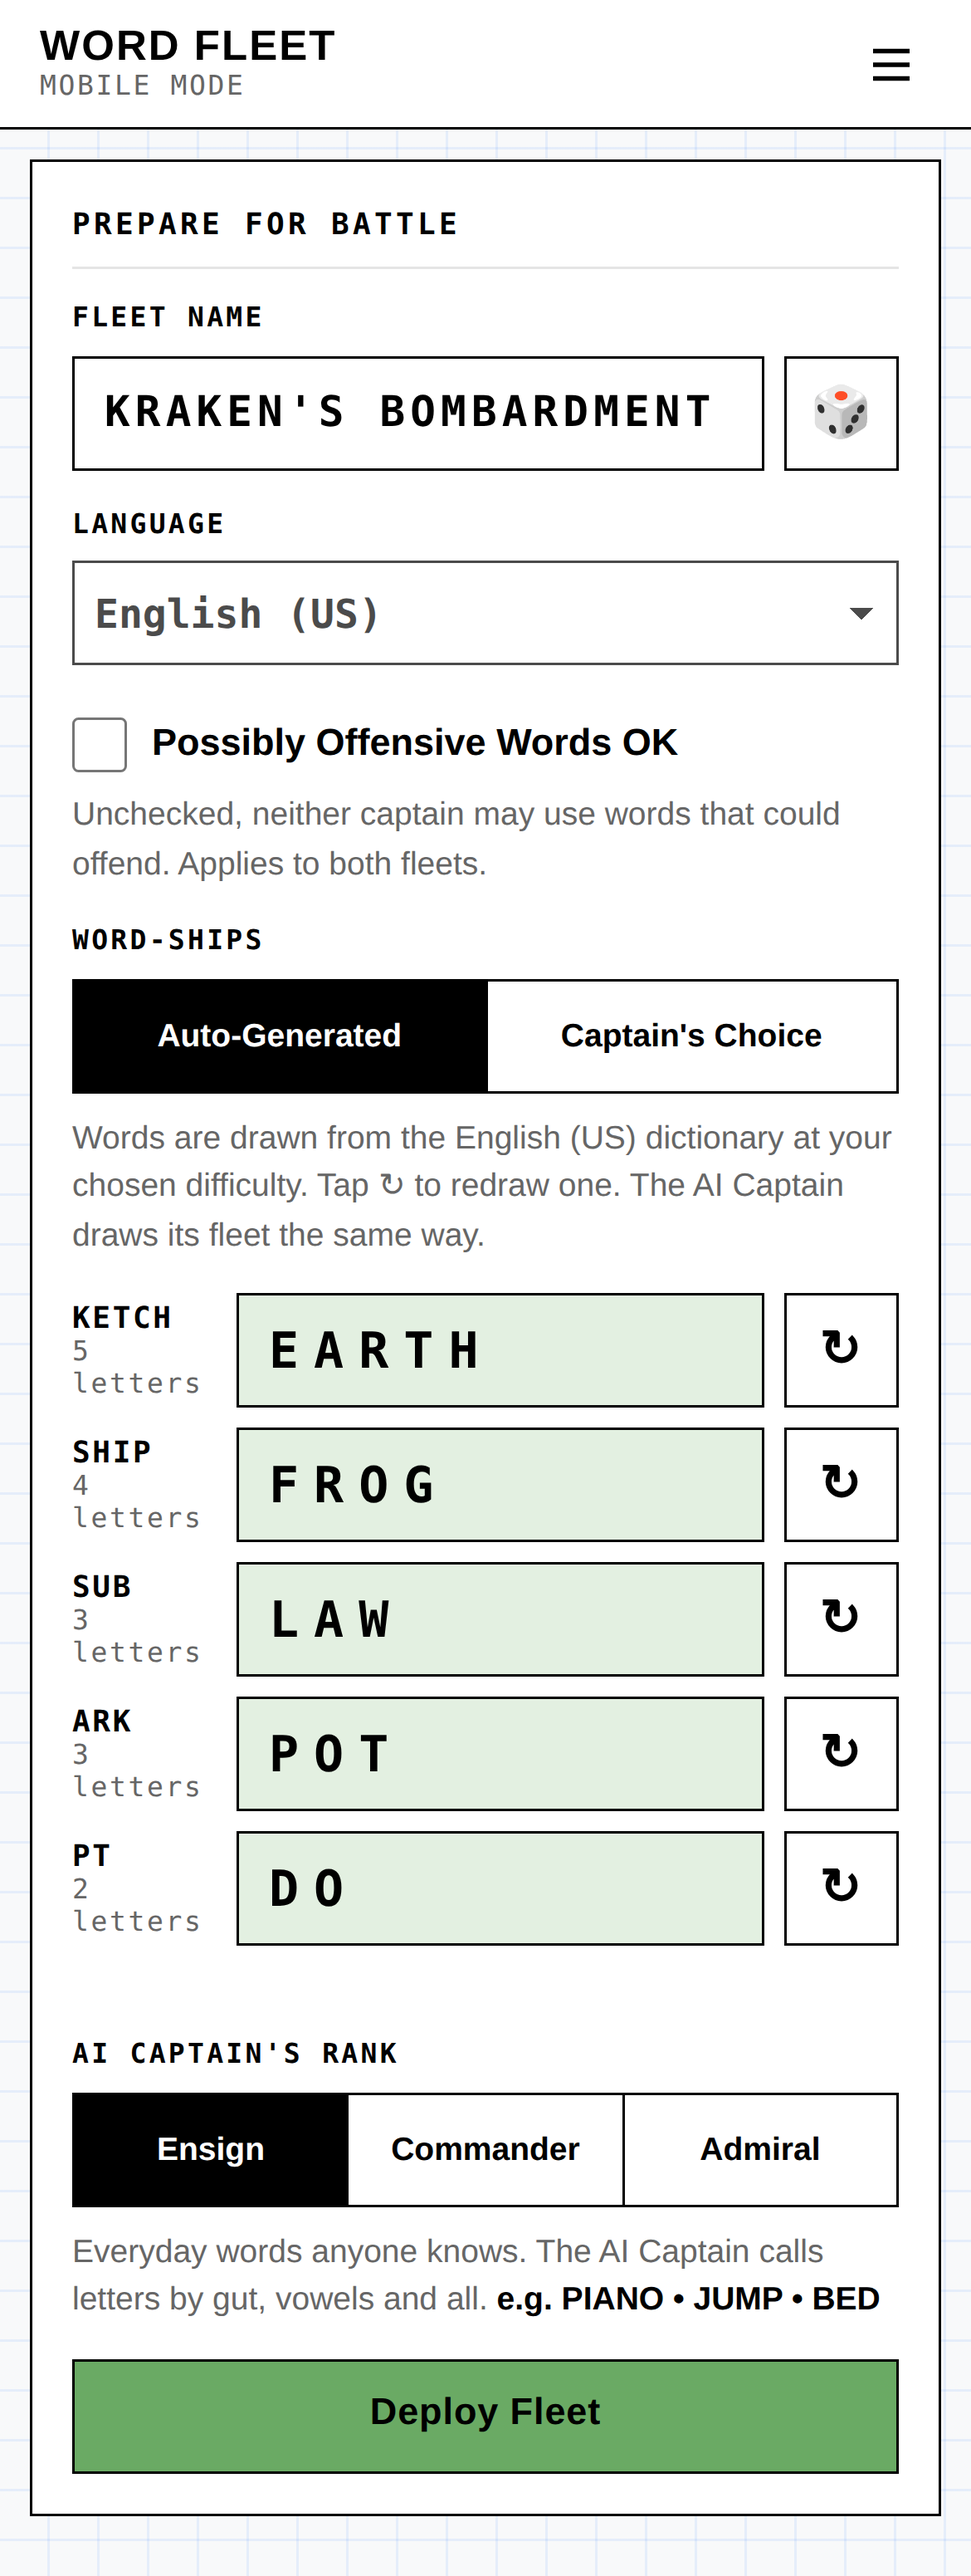
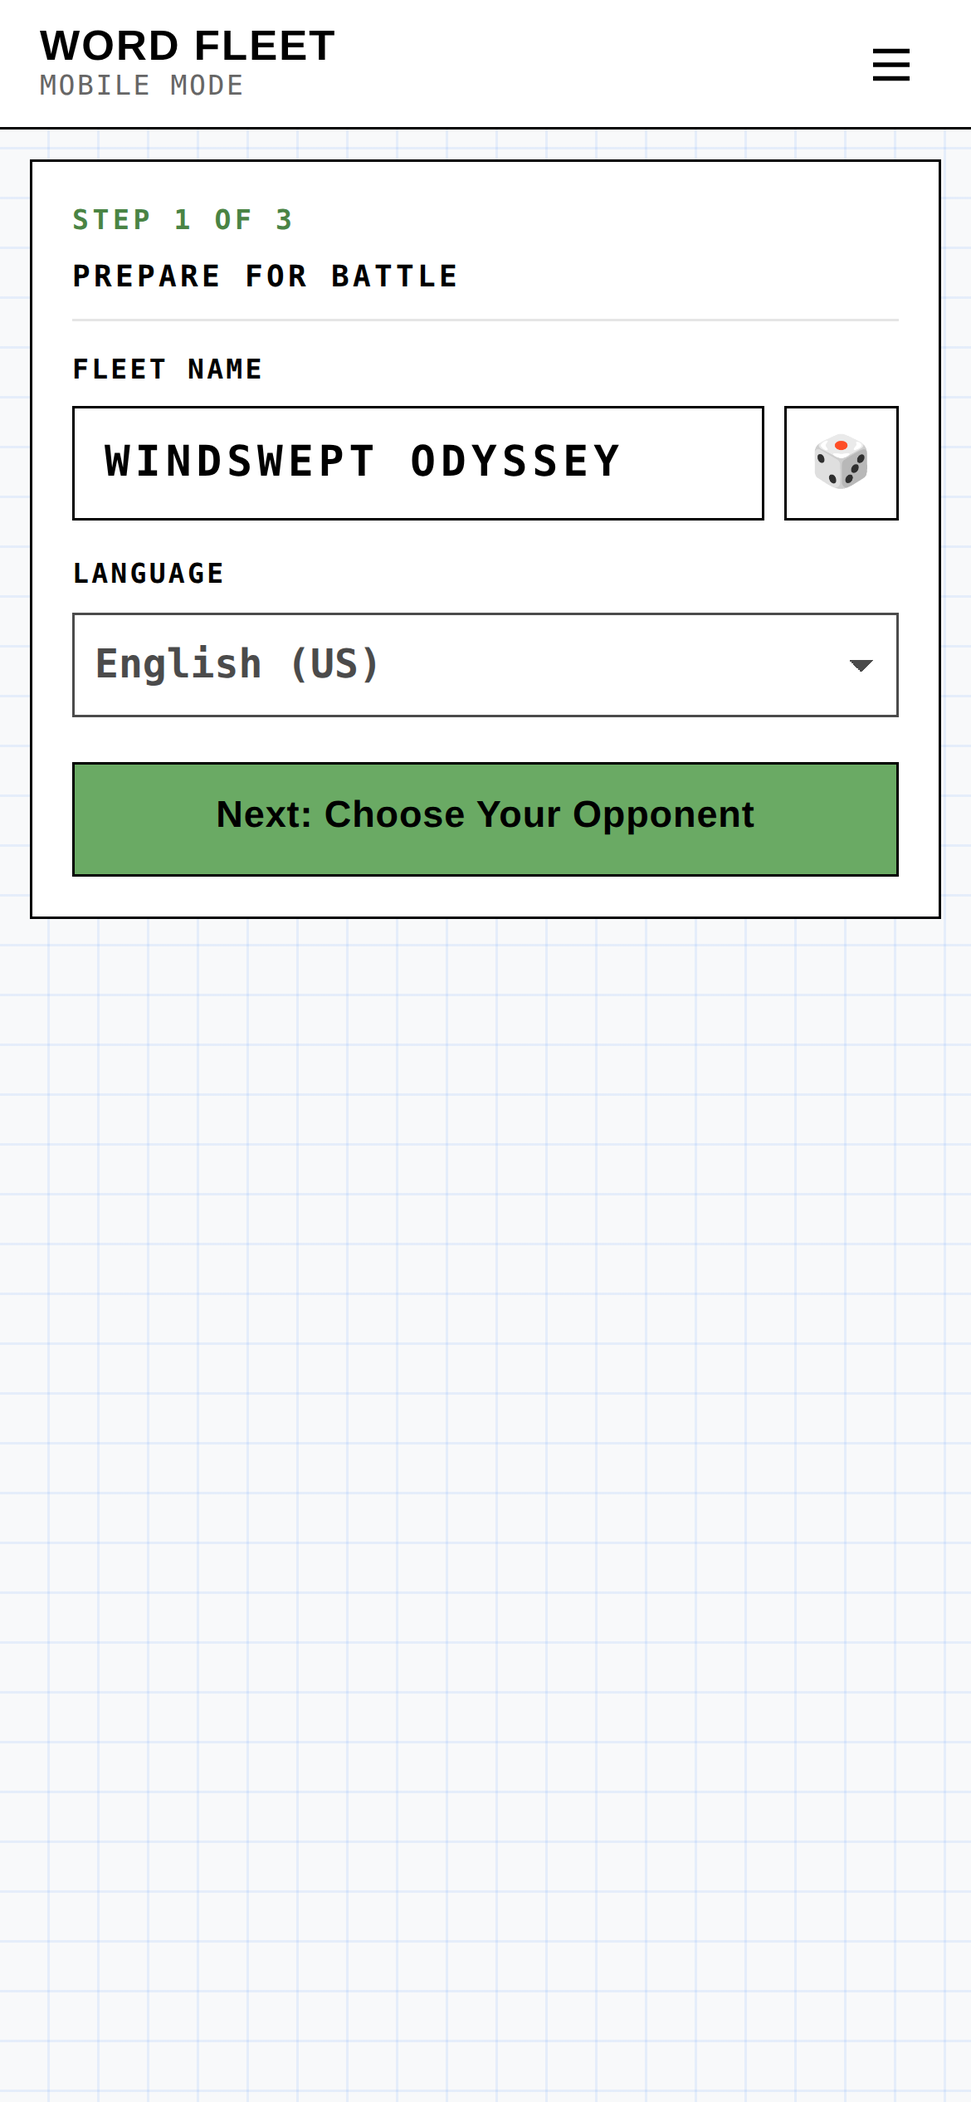
Split Prepare for Battle into three steps
002 Prepare for Battle (fleet name, language) > 003 Choose Your Opponent
(AI Captain's rank) > 004 Choose Your Words (auto or Captain's Choice,
the five words, offensive-words checkbox, Deploy Fleet). Each step has
Next and Back; Change Words on Deploy returns to step 3. Deploy is now
005 Deploy. Screen guide and snapshots updated.

Claude-Session: https://claude.ai/code/session_013sUGAAEC45a1EJCrQWVj9Q

diff --git a/mobile/index.html b/mobile/index.html
@@ -52,6 +52,7 @@
   <!-- ============ 002 PREPARE FOR BATTLE (screen name: "002 Prepare for Battle") ============ -->
   <section class="screen" id="scrSetup" data-screen="002 Prepare for Battle">
     <div class="card">
+      <div class="step">Step 1 of 3</div>
       <div class="card-title">Prepare for Battle</div>
       <label class="label" for="inFleet">Fleet Name</label>
       <div class="input-row">
@@ -61,19 +62,16 @@
 
       <label class="label" for="selLang">Language</label>
       <select class="select" id="selLang"></select>
-      <label class="check"><input type="checkbox" id="chkOffensive"> Possibly Offensive Words OK</label>
-      <p class="hint hint--tight">Unchecked, neither captain may use words that could offend. Applies to both fleets.</p>
 
-      <span class="label">Word-ships</span>
-      <div class="seg" id="segMode">
-        <button type="button" data-v="auto" class="is-on">Auto-Generated</button>
-        <button type="button" data-v="manual">Captain's Choice</button>
-      </div>
-      <p class="hint" id="modeHint">Auto words are drawn from the Word Fleet dictionary. The AI Captain uses the same method.</p>
+      <button class="btn btn--primary btn--wide btn--next" id="btnToOpponent" type="button">Next: Choose Your Opponent</button>
+    </div>
+  </section>
 
-      <div id="wordList"></div>
-      <p class="note" id="setupNote"></p>
-
+  <!-- ============ 003 CHOOSE YOUR OPPONENT (screen name: "003 Choose Your Opponent") ============ -->
+  <section class="screen" id="scrOpponent" data-screen="003 Choose Your Opponent">
+    <div class="card">
+      <div class="step">Step 2 of 3</div>
+      <div class="card-title">Choose Your Opponent</div>
       <span class="label">AI Captain's Rank</span>
       <div class="seg" id="segLevel">
         <button type="button" data-v="ensign" class="is-on">Ensign</button>
@@ -82,12 +80,36 @@
       </div>
       <p class="hint" id="levelHint"></p>
 
-      <button class="btn btn--primary btn--wide" id="btnToDeploy" type="button">Deploy Fleet</button>
+      <button class="btn btn--primary btn--wide btn--next" id="btnToWords" type="button">Next: Choose Your Words</button>
+      <button class="btn btn--ghost btn--wide" id="btnBackToSetup" type="button">&larr; Back</button>
     </div>
   </section>
 
-  <!-- ============ 003 DEPLOY (screen name: "003 Deploy") ============ -->
-  <section class="screen" id="scrDeploy" data-screen="003 Deploy">
+  <!-- ============ 004 CHOOSE YOUR WORDS (screen name: "004 Choose Your Words") ============ -->
+  <section class="screen" id="scrWords" data-screen="004 Choose Your Words">
+    <div class="card">
+      <div class="step">Step 3 of 3</div>
+      <div class="card-title">Choose Your Words</div>
+      <span class="label">Word-ships</span>
+      <div class="seg" id="segMode">
+        <button type="button" data-v="auto" class="is-on">Auto-Generated</button>
+        <button type="button" data-v="manual">Captain's Choice</button>
+      </div>
+      <p class="hint" id="modeHint"></p>
+
+      <div id="wordList"></div>
+      <p class="note" id="setupNote"></p>
+
+      <label class="check"><input type="checkbox" id="chkOffensive"> Possibly Offensive Words OK</label>
+      <p class="hint hint--tight">Unchecked, neither captain may use words that could offend. Applies to both fleets.</p>
+
+      <button class="btn btn--primary btn--wide btn--next" id="btnToDeploy" type="button">Deploy Fleet</button>
+      <button class="btn btn--ghost btn--wide" id="btnBackToOpponent" type="button">&larr; Back</button>
+    </div>
+  </section>
+
+  <!-- ============ 005 DEPLOY (screen name: "005 Deploy") ============ -->
+  <section class="screen" id="scrDeploy" data-screen="005 Deploy">
     <div class="card card--flush">
       <div class="grid-label">DEFENSE GRID <span id="deployCount">0 of 5 deployed</span></div>
       <div class="grid" id="gridDeploy"></div>

diff --git a/mobile/app.js b/mobile/app.js
@@ -248,8 +248,10 @@
   // screens + chrome
   // ------------------------------------------------------------
   var SCREENS = { home: 'scrMobileHome',   // "001 Mobile Home"
-                  setup: 'scrSetup',   // "002 Prepare for Battle"
-                  deploy: 'scrDeploy',   // "003 Deploy"
+                  setup: 'scrSetup',         // "002 Prepare for Battle"
+                  opponent: 'scrOpponent',   // "003 Choose Your Opponent"
+                  words: 'scrWords',         // "004 Choose Your Words"
+                  deploy: 'scrDeploy',       // "005 Deploy"
                   battle: 'scrBattle', over: 'scrOver' };
   var current = 'home';
 
@@ -270,7 +272,7 @@
 
   function render() {
     if (current === 'home') renderHome();
-    else if (current === 'setup') renderSetup();
+    else if (current === 'setup' || current === 'opponent' || current === 'words') renderSetup();
     else if (current === 'deploy') renderDeploy();
     else if (current === 'battle') renderBattle();
     else if (current === 'over') renderOver();
@@ -332,7 +334,7 @@
 
   function resume() {
     if (!S) return show('home');
-    if (S.phase === 'setup') show('setup');
+    if (S.phase === 'setup') show(S.setupStep || 'setup');
     else if (S.phase === 'deploy') show('deploy');
     else if (S.phase === 'battle') show('battle');
     else show('over');
@@ -397,9 +399,6 @@
   }
 
   function setupToDeploy() {
-    var name = $('inFleet').value.trim().toUpperCase().replace(/\s+/g, ' ');
-    if (!name) { name = randomFleetName(); $('inFleet').value = name; }
-    S.me.name = name;
     if (S.mode === 'manual') {
       for (var i = 0; i < SPECS.length; i++) {
         var p = wordProblem(S.me.words[i] || '', SPECS[i].len);
@@ -1168,6 +1167,20 @@
     if (S.mode === 'auto' && !S.me.words.every(inDictionary)) S.me.words = randomWords();
     save(); renderSetup();
   });
+  // Prepare for Battle runs in three steps: 002 name/language, 003 opponent, 004 words.
+  function setupStep(step) {
+    if (step !== 'setup') {
+      var name = (S.me.name || '').trim().toUpperCase().replace(/\s+/g, ' ');
+      S.me.name = name || randomFleetName();
+    }
+    S.setupStep = step;
+    save();
+    show(step);
+  }
+  on($('btnToOpponent'), 'click', function () { setupStep('opponent'); });
+  on($('btnToWords'), 'click', function () { setupStep('words'); });
+  on($('btnBackToSetup'), 'click', function () { setupStep('setup'); });
+  on($('btnBackToOpponent'), 'click', function () { setupStep('opponent'); });
   on($('btnToDeploy'), 'click', setupToDeploy);
 
   // deploy
@@ -1261,7 +1274,7 @@
   on($('btnScatter'), 'click', function () { S.me.ships = scatter(S.me.words); ui.pick = -1; sfx('place'); save(); renderDeploy(); });
   on($('btnClear'), 'click', function () { S.me.ships.forEach(function (s) { s.r = null; s.c = null; }); ui.pick = 0; save(); renderDeploy(); });
   on($('btnDeployDone'), 'click', confirmDeploy);
-  on($('btnDeployBack'), 'click', function () { S.phase = 'setup'; save(); show('setup'); });
+  on($('btnDeployBack'), 'click', function () { S.phase = 'setup'; S.setupStep = 'words'; save(); show('words'); });
 
   // battle
   on($('firePanel'), 'click', function (e) {

diff --git a/mobile/app.css b/mobile/app.css
@@ -394,3 +394,7 @@ button.mf { font: inherit; color: var(--ink); width: 100%; padding: 3px 0 2px; c
 
 .bonus { font-size: 16px; }
 .bonus.is-foe { color: var(--navy); background: var(--navy-wash); border-color: var(--navy); }
+
+/* --- Prepare for Battle steps --- */
+.step { font-family: var(--mono); font-size: 11px; font-weight: 700; letter-spacing: 0.14em; text-transform: uppercase; color: var(--green-dark); margin-bottom: 4px; }
+.btn--next { margin-top: 18px; }

diff --git a/mobile/sw.js b/mobile/sw.js
@@ -1,5 +1,5 @@
 /* Word Fleet service worker: the whole game works offline once loaded. */
-var CACHE = 'wordfleet-v26';
+var CACHE = 'wordfleet-v27';
 var SHELL = [
   './',
   'index.html',

diff --git a/mobile/screens/README.md b/mobile/screens/README.md
@@ -6,5 +6,7 @@ referred to by name when asking for changes. Each has a number and a reference s
 | Name | In the code | Snapshot | What it is |
 | --- | --- | --- | --- |
 | **001 Mobile Home** | `<section id="scrMobileHome" data-screen="001 Mobile Home">`, `SCREENS.home` | `001-mobile-home.png` | First screen of the app: WORD FLEET title, Mobile Mode tag, blurb, New Battle and Rules of Engagement buttons. |
-| **002 Prepare for Battle** | `<section id="scrSetup" data-screen="002 Prepare for Battle">`, `SCREENS.setup` | `002-prepare-for-battle.png` | Fleet setup: fleet name, language, offensive-words checkbox, word-ships (auto or Captain's Choice), AI Captain's rank, Deploy Fleet. |
-| **003 Deploy** | `<section id="scrDeploy" data-screen="003 Deploy">`, `SCREENS.deploy` | `003-deploy.png`, `003-deploy-placed.png` | Place the five word-ships on your Defense Grid: Across/Down, Scatter, Clear, the roster of ships, Confirm Deployment, Change Words. Drag a ship to move it; double-tap its first letter to turn it. |
+| **002 Prepare for Battle** | `<section id="scrSetup" data-screen="002 Prepare for Battle">`, `SCREENS.setup` | `002-prepare-for-battle.png` | Step 1 of 3: fleet name (with dice) and language. |
+| **003 Choose Your Opponent** | `<section id="scrOpponent" data-screen="003 Choose Your Opponent">`, `SCREENS.opponent` | `003-choose-your-opponent.png` | Step 2 of 3: the AI Captain's rank (Ensign, Commander, Admiral). |
+| **004 Choose Your Words** | `<section id="scrWords" data-screen="004 Choose Your Words">`, `SCREENS.words` | `004-choose-your-words.png` | Step 3 of 3: Auto-Generated or Captain's Choice, the five word-ships, Possibly Offensive Words OK, Deploy Fleet. |
+| **005 Deploy** | `<section id="scrDeploy" data-screen="005 Deploy">`, `SCREENS.deploy` | `005-deploy.png`, `005-deploy-placed.png` | Place the five word-ships on your Defense Grid: Across/Down, Scatter, Clear, the roster of ships, Confirm Deployment, Change Words. Drag a ship to move it; double-tap its first letter to turn it. |
